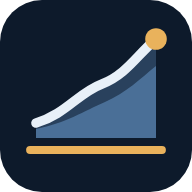
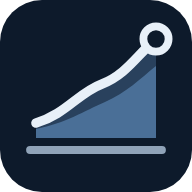
Replace the yellow accent with the lineup's silver and blue
Goal line, legend and logo are now silver; the mid-range probability ring is blue.

Claude-Session: https://claude.ai/code/session_0143zampKj7QJaBcpcpFbdeR

Changed region(s): [[0.125, 0.75, 0.875, 0.8125], [0.7188, 0.0938, 0.9062, 0.3125]]

diff --git a/styles.css b/styles.css
@@ -6,7 +6,7 @@
   --ln: rgba(214, 228, 248, .08); --ln2: rgba(214, 228, 248, .15);
   --ink: #f1f5fa; --t2: #a6b2c2; --t3: #7f8c9d;
   --acc: #74a9dd; --acc-soft: rgba(116, 169, 221, .14);
-  --hit: #6fcf9c; --miss: #5d7590; --goal: #e9b25c; --bad: #ef7d6b;
+  --hit: #6fcf9c; --miss: #5d7590; --goal: #d9e2ec; --bad: #ef7d6b;
   --band: rgba(116, 169, 221, .16); --band2: rgba(116, 169, 221, .32);
   --pill: #f1f5fa; --pill-ink: #0a1220;
   --shadow: 0 1px 0 rgba(255, 255, 255, .04) inset, 0 20px 50px -30px rgba(0, 0, 0, .7);
@@ -21,7 +21,7 @@ html.lt {
   --ln: rgba(14, 30, 54, .09); --ln2: rgba(14, 30, 54, .17);
   --ink: #0c1624; --t2: #46546a; --t3: #5d6a7c;
   --acc: #1f5b97; --acc-soft: rgba(31, 91, 151, .1);
-  --hit: #2a7a52; --miss: #9aabbf; --goal: #946112; --bad: #9e3622;
+  --hit: #2a7a52; --miss: #9aabbf; --goal: #2b3747; --bad: #9e3622;
   --band: rgba(31, 91, 151, .12); --band2: rgba(31, 91, 151, .26);
   --pill: #0c1624; --pill-ink: #f6f8fa;
   --shadow: 0 1px 0 rgba(255, 255, 255, .9) inset, 0 20px 45px -32px rgba(20, 40, 70, .35);
@@ -112,7 +112,7 @@ html.lt .glass::before { background: radial-gradient(420px circle at var(--mx, -
 .run-btn { width: 100%; height: 48px; border-radius: 999px; border: 0; background: var(--pill); color: var(--pill-ink); font-size: 15px; font-weight: 600; cursor: pointer; transition: transform .15s, opacity .15s; }
 .run-btn:hover { transform: translateY(-1px); }
 .run-btn:disabled { opacity: .6; cursor: progress; transform: none; }
-.stale { font-size: 12.5px; color: var(--goal); margin-top: 10px; text-align: center; }
+.stale { font-size: 12.5px; color: var(--t2); margin-top: 10px; text-align: center; }
 .link-btn { background: none; border: 0; padding: 0; color: var(--acc); font-size: 12.5px; cursor: pointer; text-decoration: underline; text-underline-offset: 3px; text-decoration-color: var(--acc-soft); }
 .link-btn:hover { text-decoration-color: var(--acc); }
 .ghost-btn { height: 34px; padding: 0 14px; border-radius: 999px; background: var(--s2); border: 1px solid var(--ln2); color: var(--ink); font-size: 13px; cursor: pointer; white-space: nowrap; }
@@ -162,7 +162,7 @@ html.lt .glass::before { background: radial-gradient(420px circle at var(--mx, -
 .ptable thead th { font: 500 11px/1.3 var(--mono); letter-spacing: .05em; text-transform: uppercase; color: var(--t3); }
 .ptable td { font-family: var(--mono); color: var(--ink); }
 .ptable td:first-child { font-family: var(--sans); color: var(--t2); }
-.ptable tr.goal-row td { color: var(--goal); }
+.ptable tr.goal-row td { color: var(--ink); font-weight: 600; }
 .ptable .up { color: var(--hit); } .ptable .dn { color: var(--bad); }
 #pin-note { margin-top: 10px; }
 

diff --git a/app.js b/app.js
@@ -115,7 +115,7 @@ function render() {
 }
 
 function drawGauge(p) {
-  const r = 52, c = 2 * Math.PI * r, color = p >= 0.5 ? 'var(--hit)' : p >= 0.25 ? 'var(--goal)' : 'var(--bad)';
+  const r = 52, c = 2 * Math.PI * r, color = p >= 0.5 ? 'var(--hit)' : p >= 0.25 ? 'var(--acc)' : 'var(--bad)';
   $('gauge').innerHTML = `<svg viewBox="0 0 132 132"><circle cx="66" cy="66" r="${r}" fill="none" stroke="var(--s3)" stroke-width="12"/>
     <circle cx="66" cy="66" r="${r}" fill="none" stroke="${color}" stroke-width="12" stroke-linecap="round" stroke-dasharray="${(c * p).toFixed(2)} ${c.toFixed(2)}" transform="rotate(-90 66 66)"/></svg>`;
 }
